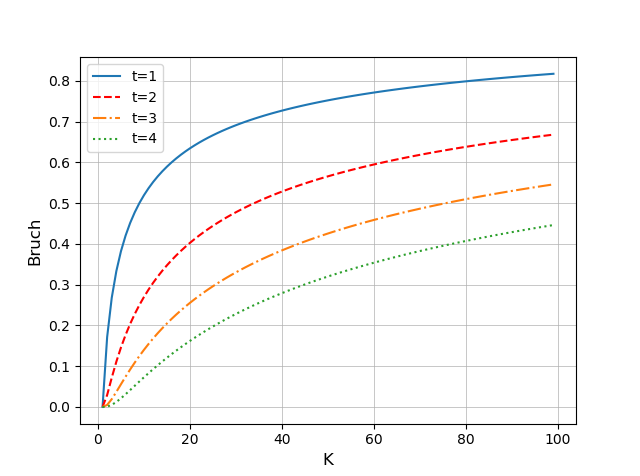
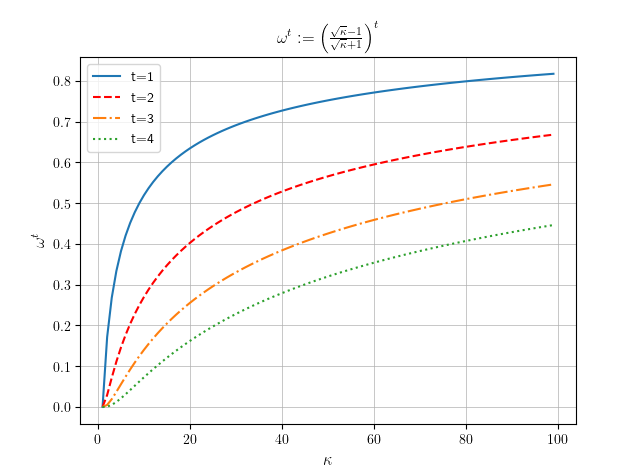
updates

diff --git a/latex/aufgabe1.tex b/latex/aufgabe1.tex
@@ -330,11 +330,13 @@ date=short                % Datumsformat
 	\newpage
 
 	\section{Einleitung}
-	Um das Gleichungssystem $Ax = b$ zu lösen, kann man verschiedene Wege nutzen. Einerseits durch Bildung von $A^{-1}$ mithilfe verschiedener Zerlegungen. Der Aufwand dieser Lösungsmöglichkeit wird am Anfang kurz untersucht. Andererseits können iterative Verfahren genutzt werden. In diesem Projekt wird genauer auf das CG-Verfahren (Conjugate Gradients) eingegangen. Dabei werden Aufwand und Konvergenzgeschwindigkeit untersucht, sowie eine mögliche Implementierung vorgestellt.  Weiteres sei Angemerkt, dass beim Implementieren die Eigen-und Time Bibliothek genutzt wurde.
+	Um das Gleichungssystem $Ax = b$ zu lösen, kann man verschiedene Wege nutzen. Einerseits durch Bildung von $A^{-1}$ mithilfe verschiedener Zerlegungen. Der Aufwand dieser Lösungsmöglichkeit wird am Anfang kurz untersucht. Andererseits können iterative Verfahren genutzt werden. In diesem Projekt wird genauer auf das CG-Verfahren (Conjugate Gradients) eingegangen. Dabei werden Aufwand und Konvergenzgeschwindigkeit untersucht, sowie eine mögliche Implementierung vorgestellt. 
 	\newpage
 	
 	\section{Aufwand einer symmetrisch positiv definiten Zufallsmatrix}
 	Beim lösen eines linearen Gleichungssystems der Form $Ax = b$ mit einer symmetrisch positiv definiten Zufallsmatrix $A\in\mathbb{R}^{n\times n}$ mit einer fixen Anzahl an Einträgen ungleich Null pro Zeile und $b \in \mathbb{R}^{n}$, z.B. mittels Cholesky-Zerlegung welches das schnellste Verfahren ist, treten $\frac{1}{3}n^{3} + \mathcal{O}(n^{2})$ arithmetische Operationen, also einen kubischen Aufwand. 
+	
+	\lstinputlisting[language=C++, firstline = 486, lastline= 509, caption = Erstellen einer symmertrisch postiv definiten Zufallsmatrix mit einer fixen Anzahl an Einträgen ungleich $0$ pro Zeile in C++]{../code/Linag/densematrix.h} 
 	
 	\section{CG-Verfahren (Conjugate Gradients)}
 	
@@ -359,6 +361,12 @@ date=short                % Datumsformat
 		\caption{CG-Verfahren} \label{alg:cg}
 	\end{algorithm}
 	
+	\lstinputlisting[language=C++, firstline = 411, lastline= 439, caption = Implementierung des CG-Verfahrens in C++]{../code/Linag/densematrix.h} 
+	
+	\begin{bemerkung}
+		Die Implementierung aller Klassen und Funktionen im $linag$-namespace sind im Anhang zu finden. Zum Vergleich wurde die Eigen-Bibliothek verwendet. 
+	\end{bemerkung}
+		
 	Nun stellt sich die Frage, ob \cref{alg:cg} äquivalent zum Algorithmus 8.10 \autocite[101]{skript} ist und welches bevorzugt wird.\\
 	\cref{alg:cg} beinhaltet lauter Vektor-Vektor Multiplikationen und zwei Matrix-Vektor Multiplikation, es ist klar, dass die Matrix-Vektor Multiplikation aufwendiger ist als die Vektor-Vektor Multiplikation. Im Algorithmus wird die selbe Matrix-Vektor Multiplikation durchgeführt, d.h. man braucht sich nur einmal das Ergebnis auszurechnen und abzuspeichern. Beim Algorithmus 8.10 gibt es wieder zwei Matrix-Vektor Multiplikationen die die Vektor-Vektor Multiplikationen dominieren. In diesen Algorithmus müssen jedoch zwei unterschiedliche Rechnungen durchgeführt werden, und damit ist \cref{alg:cg} effizienter. Man muss nur noch zeigen, dass die beiden Algorithmen dasselbe Ergebnis liefern.\\
 	
@@ -368,17 +376,17 @@ date=short                % Datumsformat
 		\norm{x^{(t)} - A^{-1}b}_A \leq 2\left(\frac{\sqrt{\kappa} - 1}{\sqrt{\kappa} + 1}\right)^{t}\norm{x^{(0)} - A^{-1}b}_A, \quad t\in\mathbb{N}
 	\end{align*}
 	
-	mit der spektralen Konditionszahl der Matrix $\kappa(A) := \left|\frac{\lambda_{max}(A)}{\lambda_{min}(A)}\right|$ und der Energienorm $\norm{x}_A := \sqrt{(x,x)_A}$. Das Verfahren konvergiert für $\frac{\sqrt{\kappa} - 1}{\sqrt{\kappa} + 1} < 1$, was offensichtlich gegeben ist, da $\kappa \geq 1$. Die Konvergenzgeschwindigkeit ist größer, wenn der Bruch minimal ist, also genau dann wenn die Eigenwerte der Matrix eng zusammenliegen. Wenn alle Eigenwerte gleich sind, dann gilt $\kappa = 1$ also $\frac{\sqrt{\kappa} - 1}{\sqrt{\kappa} + 1} = 0$. Nun wird gezeigt wie der Fehler abhängig von $\kappa$ und die Anzahl der Iterationsschritte t gegen 0 konvergiert.
+	mit der spektralen Konditionszahl der Matrix $\kappa(A) := \left|\frac{\lambda_{max}(A)}{\lambda_{min}(A)}\right|$ und der Energienorm $\norm{x}_A := \sqrt{(x,x)_A}$. Das Verfahren konvergiert für $\frac{\sqrt{\kappa} - 1}{\sqrt{\kappa} + 1} < 1$, was offensichtlich gegeben ist, da $\kappa \geq 1$. Die Konvergenzgeschwindigkeit ist größer, wenn der Bruch minimal ist, also genau dann wenn die Eigenwerte der Matrix eng zusammenliegen. Wenn alle Eigenwerte gleich sind, dann gilt $\kappa = 1$ also $\frac{\sqrt{\kappa} - 1}{\sqrt{\kappa} + 1} = 0$. Nun wird gezeigt wie der Fehler abhängig von $\kappa$ und die Anzahl der Iterationsschritte t gegen 0 konvergiert, also vom Bruch $\left(\frac{\sqrt{\kappa} - 1}{\sqrt{\kappa} + 1}\right)^{t} =: \omega^{t}$.
 	
 	\begin{figure}[H]
 		\begin{center}
-			\includegraphics[width=0.8\textwidth]{../plots/fehler cg.png}
+			\includegraphics[width=0.8\textwidth]{../plots/fehler cgloglog.png}
 		\end{center}
 		\caption{Fehlerkonvergenz abhängig von $\kappa$ und t gegen 0}
 		\label{fig:fehlercg}	
 	\end{figure}
 
-	Man sieht auf \cref{fig:fehlercg} dass die Konvergenz des CG-Verfahren schneller gegen ist, genau dann wenn die Eigenwerte eng zusammenliegen, also wenn $\kappa$ annähernd 1 ist. Der Bruch auf der y-Achse ist natürlich $\frac{\sqrt{\kappa} - 1}{\sqrt{\kappa} + 1}$.
+	Man sieht auf \cref{fig:fehlercg} dass die Konvergenz des CG-Verfahrens schneller gegen 0 ist, genau dann wenn die Eigenwerte eng zusammenliegen, also wenn $\kappa$ annähernd 1 ist.
 	
 	\newpage
 	
@@ -396,7 +404,7 @@ date=short                % Datumsformat
 	
 	Eine Möglichkeit das Format zu implementieren ist wie folgt:
 	
-	hier code
+
 	
 	Die spektrale Konditionszahl definiert die Konvergenzgeschwindigkeit des CG-Verfahrens. Durch lösen des vorkonditionierten Systems
 	\begin{align*}

diff --git a/code/konvergenz.py b/code/konvergenz.py
@@ -7,22 +7,26 @@ Created on Sat Jan 18 18:53:53 2020
 
 import numpy as np
 import matplotlib.pylab as plt
+from matplotlib import rc
+
+#rc('text', usetex = True)
 
 def f(k, i):
     return ((np.sqrt(k)-1)/(np.sqrt(k)+1))**i
 
-k = np.arange(1,100,1)
+t = np.arange(1,50,0.01)
 
 fig = plt.figure()
 ax = plt.subplot(111)
 
-ax.plot(k,f(k,1), label='t=1')
-ax.plot(k,f(k,2), 'r--', label='t=2')
-ax.plot(k,f(k,3), '-.', label='t=3')
-ax.plot(k,f(k,4), ':', label='t=4')
+ax.loglog(t,f(2,t), label='$\kappa = 2$')
+ax.loglog(t,f(10,t), 'r--', label='$\kappa = 10$')
+ax.loglog(t,f(100,t), '-.', label='$\kappa = 100$')
+#ax.loglog(t,f(50,t), ':', label='$\kappa = 50$')
 
 ax.grid(which='major', linewidth=0.5)
-ax.set_xlabel('K', size='large')
-ax.set_ylabel('Bruch', size='large')
+ax.set_xlabel('$\kappa$', size='large')
+ax.set_ylabel('$\omega^t$', size='large')
+plt.title(r'$\omega^{t} := \left(\frac{\sqrt{\kappa} - 1}{\sqrt{\kappa} + 1}\right)^{t}$',fontsize='large')
 ax.legend()
 plt.show
